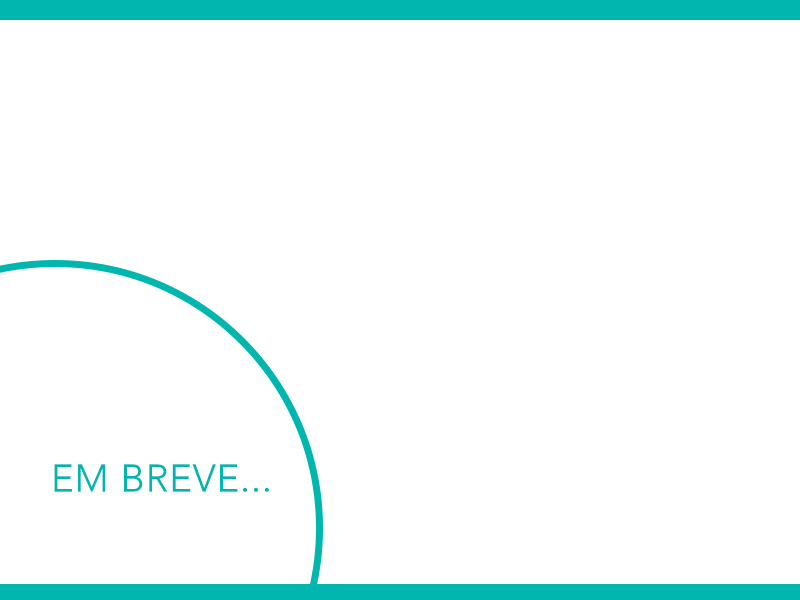
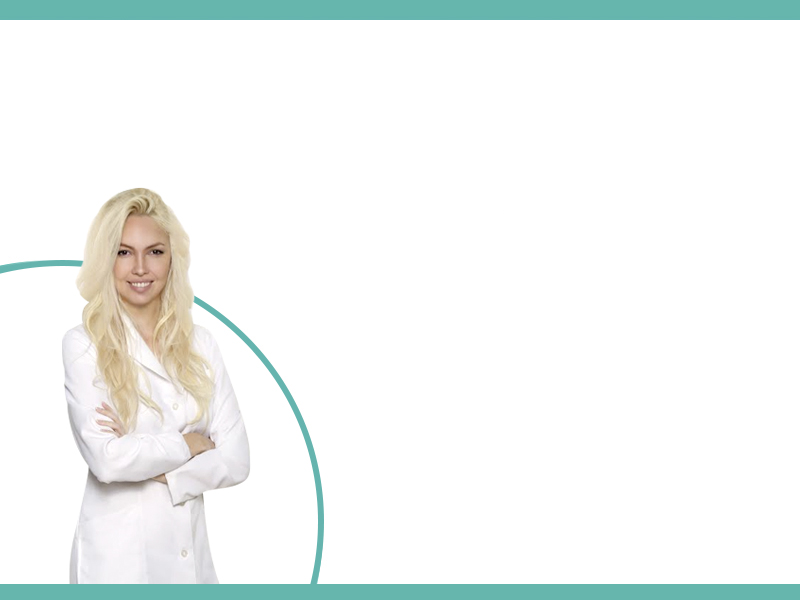
new images

Changed region(s): [[0.0, 0.3, 1.0, 1.0], [0.0, 0.0, 1.0, 0.06], [0.2812, 0.54, 0.3438, 0.63]]

diff --git a/index.php b/index.php
@@ -6,10 +6,13 @@
 			<img src="images/home_instituto_001.jpg" width="1521" height="650" class="img-responsive center-block" alt="Alpha Group">
 		</div>
 		<div class="item">
-			<img src="images/home_instituto_003.jpg" width="1521" height="650" class="img-responsive center-block" alt="Exames">
+			<img src="images/home_instituto_002.jpg" width="1521" height="650" class="img-responsive center-block" alt="Exames">
 		</div>
 		<div class="item">
-			<img src="images/home_instituto_004.jpg" width="1521" height="650" class="img-responsive center-block" alt="Decoração">
+			<img src="images/home_instituto_003.jpg" width="1521" height="650" class="img-responsive center-block" alt="Decoração">
+		</div>
+		<div class="item">
+			<img src="images/home_instituto_004.jpg" width="1521" height="650" class="img-responsive center-block" alt="paracelsus">
 		</div>
 	</div>
 </section>
